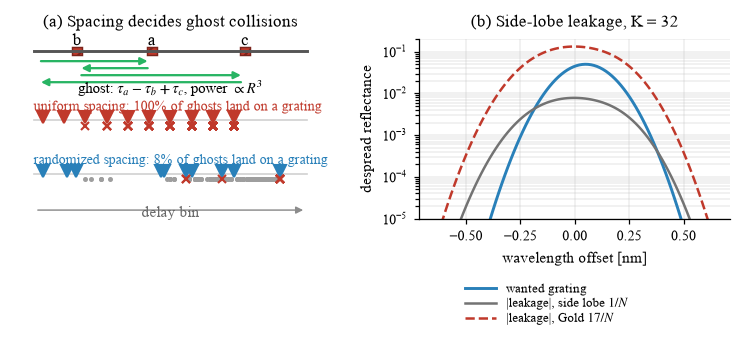
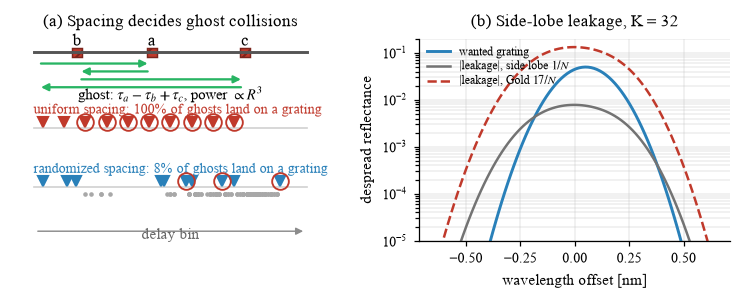
s16: jeden rzad markerow w (a), legenda (b) do srodka osi
(a) Duchy trafiaja tylko w czesc siatek, wiec osobny rzad znakow kolizji
nigdy nie pokrywal sie z rzedem trojkatow i calosc czytalo sie jak
rozjechany rysunek. Teraz jest jeden rzad: trojkat to siatka, czerwona
obwodka znaczy, ze wpadl w nia duch, szare kropki pod linia to duchy w
pustych binach. Nie ma juz czego zestawiac wzrokiem miedzy rzedami, a
roznica widac od razu: rownomierny rozstaw obwodzi prawie kazda siatke,
losowy trzy na dziesiec.

(b) Legenda pod osiami rezerwowala 36 procent wysokosci calej figury
(subplots_adjust bottom=0.36). Wchodzi do pustego lewego gornego rogu,
bottom wraca do 0.19, a wysokosc figury spada z 2.30 do 1.98 cala.

diff --git a/python_selfcal_cdm/s16_principle.py b/python_selfcal_cdm/s16_principle.py
@@ -138,7 +138,7 @@ fig.savefig('figs/fig_s16_principle.png', dpi=150, bbox_inches='tight')
 # ===========================================================================
 # This figure is included at 0.72 text width in the paper. Draw it at that
 # physical width so the 7 pt labels remain 7 pt after LaTeX placement.
-fig2, ax = plt.subplots(1, 2, figsize=(5.1, 2.30))
+fig2, ax = plt.subplots(1, 2, figsize=(5.1, 1.98))
 
 # --- (b) ghost delays ------------------------------------------------------
 axb = ax[0]
@@ -177,18 +177,25 @@ def ghost_bins(b):
 for row, (b, gbs, ttl, col) in enumerate(
         [(bu, ghost_bins(bu), 'uniform spacing', '#c0392b'),
          (br, ghost_bins(br), 'randomized spacing', '#2980b9')]):
-    y0 = 5.00 - 3.35 * row
+    y0 = 5.15 - 3.30 * row
     axb.plot([0.6, 9.4], [y0, y0], color='0.82', lw=0.8)
     xs = 0.6 + 8.8 * b / 90.0
     # siatki nad osia, duchy pod nia: zadne dwa markery nie zajmuja tego
     # samego miejsca, wiec kolizje widac, a nie domysla sie ich
-    axb.plot(xs, [y0 + 0.20] * len(b), 'v', color=col, ms=5.5, clip_on=False)
     hit = np.array([g in b for g in gbs])
     xg = 0.6 + 8.8 * gbs / 90.0
-    axb.plot(xg[~hit], [y0 - 0.32] * (~hit).sum(), '.', color='0.62', ms=2.8)
-    axb.plot(xg[hit], [y0 - 0.32] * hit.sum(), 'x', color='#c0392b', ms=4.2,
-             mew=1.0)
-    axb.text(0.6, y0 + 0.62, '%s: %d%% of ghosts land on a grating'
+    # duchy w pustych binach: drobne kropki pod linia, bez wlasnego rzedu
+    axb.plot(xg[~hit], [y0 - 0.42] * (~hit).sum(), '.', color='0.66', ms=2.4,
+             zorder=1)
+    # siatki na linii, trafione obwiedzione: kolizja jest cecha SIATKI,
+    # a nie osobnym rzedem markerow do porownywania wzrokiem
+    struck = np.array([bb in set(np.round(gbs).astype(int)) for bb in b])
+    axb.plot(xs, [y0 + 0.30] * len(b), 'v', color=col, ms=5.2, clip_on=False,
+             zorder=3)
+    if struck.any():
+        axb.plot(xs[struck], [y0 + 0.30] * struck.sum(), 'o', ms=8.0,
+                 mfc='none', mec='#c0392b', mew=0.9, clip_on=False, zorder=4)
+    axb.text(0.6, y0 + 0.78, '%s: %d%% of ghosts land on a grating'
              % (ttl, round(100 * hit.mean())), fontsize=6.6, color=col)
 axb.annotate('', xy=(9.4, -0.62), xytext=(0.6, -0.62),
              arrowprops=dict(arrowstyle='-|>', color='0.55', lw=0.7))
@@ -212,14 +219,14 @@ ax[1].plot(nuc * PM / 1000.0, np.abs((-17.0 / NCH) * (Ac[1:].sum(axis=0))),
 ax[1].set_yscale('log'); ax[1].set_ylim(1e-5, 0.2)
 ax[1].set_xlabel('wavelength offset [nm]'); ax[1].set_ylabel('despread reflectance')
 ax[1].set_title('(b) Side-lobe leakage, K = %d' % Kc, fontsize=8.1)
-handles, labels = ax[1].get_legend_handles_labels()
 ax[1].grid(True, which='both', alpha=0.2)
+# legenda w pustym lewym gornym rogu, a nie pod osiami: pod osiami
+# zabierala ponad jedna trzecia wysokosci calej figury
+ax[1].legend(fontsize=5.7, loc='upper left', frameon=False,
+             handlelength=1.9, labelspacing=0.22, borderaxespad=0.25)
 
-fig2.subplots_adjust(left=0.055, right=0.99, top=0.88, bottom=0.36,
+fig2.subplots_adjust(left=0.055, right=0.99, top=0.87, bottom=0.19,
                      wspace=0.30)
-fig2.legend(handles, labels, fontsize=6.3, loc='lower center',
-            bbox_to_anchor=(0.75, 0.015), frameon=False, ncol=1,
-            handlelength=2.3, labelspacing=0.16)
 fig2.savefig('figs/fig_s16_mechanisms.png', dpi=150, bbox_inches='tight')
 fig2.savefig('figs/fig_s16_mechanisms.pdf', bbox_inches='tight')
 
